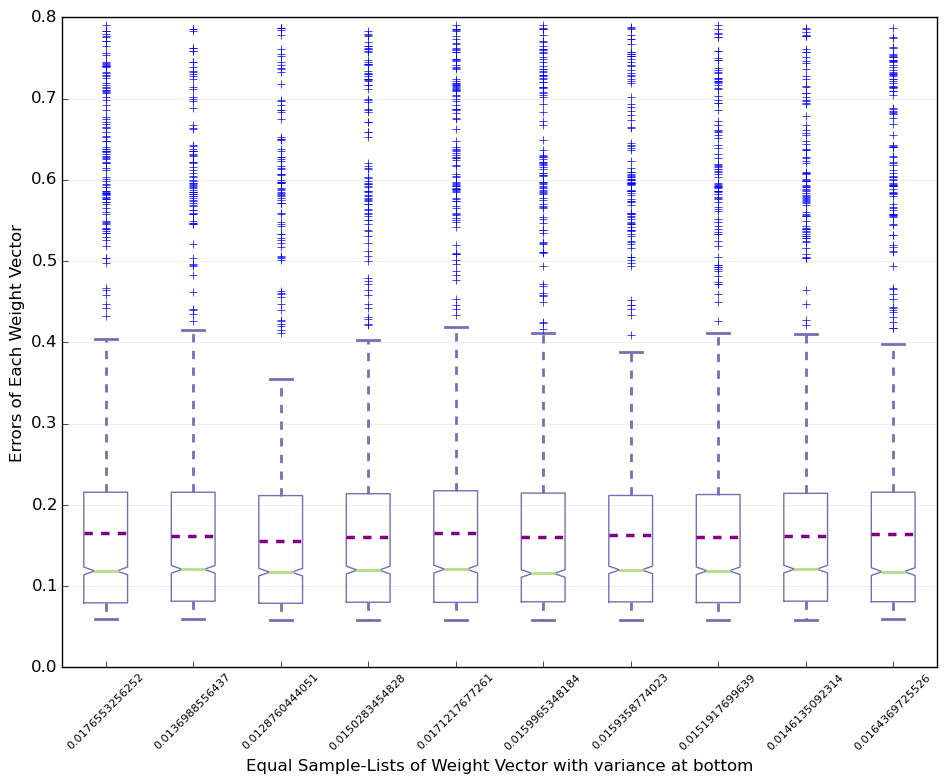
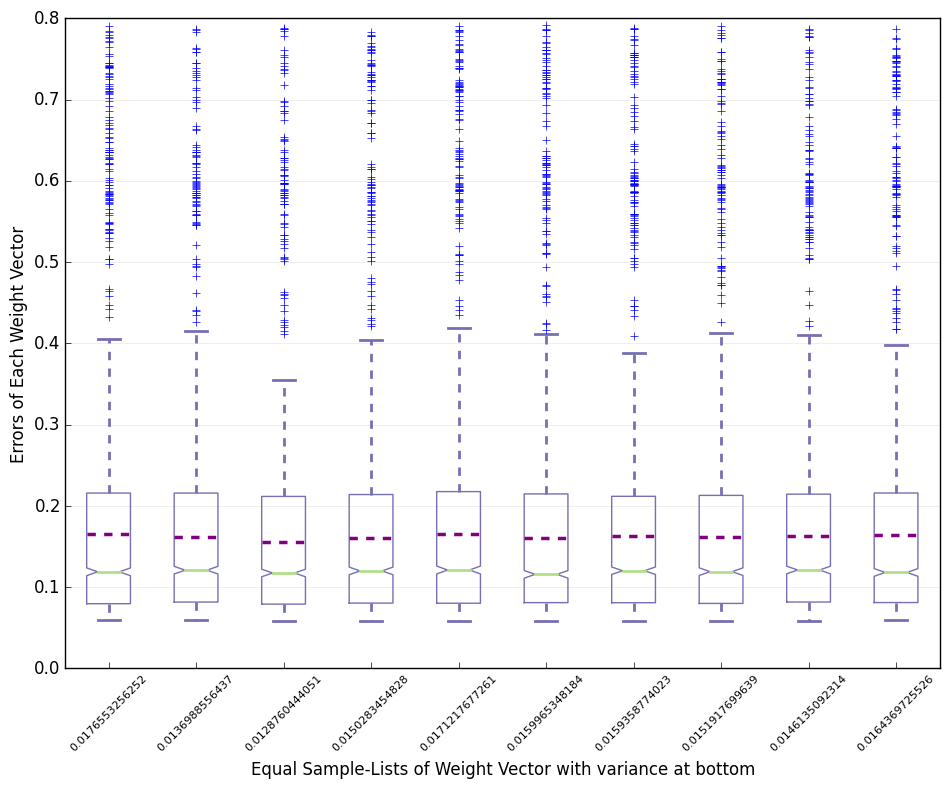
correct the label of graph

diff --git a/src/lib/plot.py b/src/lib/plot.py
@@ -141,9 +141,9 @@ class Plot:
         dash_line = mlines.Line2D([], [], color='purple', label='error_mean', linestyle='--')
 
         if str_ == "equal":
-            ax.set_xlabel('Equal Sample-Lists of Weight Vector')
+            ax.set_xlabel('Equal Sample-Lists of Weight Vector with variance at bottom')
         else:
-            ax.set_xlabel('Random Sample-Lists of Weight Vector')
+            ax.set_xlabel('Random Sample-Lists of Weight Vector with variance at bottom')
         ax.set_ylabel('Errors of Each Weight Vector')
         # Put a legend below current axis
         f1 = plt.legend(handles=[dash_line], loc=1)
